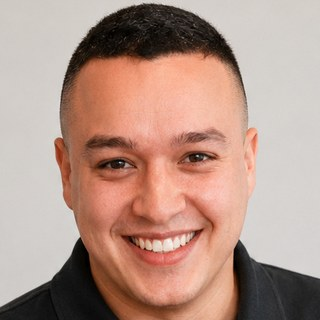
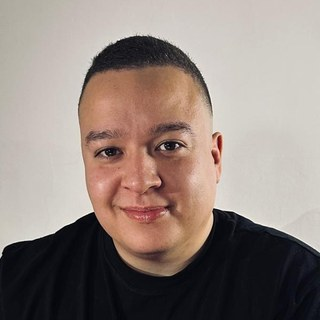
Audit: Jossiah's edits - new headshot (photo 2) and face crop, updated spend/revenue line, new MacBook quote
Claude-Session: https://claude.ai/code/session_01W7CZpkC2FqNieTvF5bf5iN

diff --git a/src/app/audit/page.tsx b/src/app/audit/page.tsx
@@ -190,13 +190,13 @@ export default function AuditPage() {
               <figure className={s.heroPhoto}>
                 <div className={s.heroPhotoFrame}>
                   <Image
-                    src="/jossiah-headshot.png"
+                    src="/jossiah-hero.jpg"
                     alt="Jossiah Pinto-Day"
                     fill
                     loading="eager"
                     fetchPriority="high"
                     sizes="(max-width: 900px) 90vw, 440px"
-                    style={{ objectFit: "cover", objectPosition: "center 25%" }}
+                    style={{ objectFit: "cover", objectPosition: "center 40%" }}
                   />
                 </div>
                 <figcaption>Jossiah Pinto-Day, founder</figcaption>
@@ -221,12 +221,9 @@ export default function AuditPage() {
                 <p>{"Consuming courses and trainings like no one’s business, and testing every idea and strategy I could think of, forever trying to find a way of getting better results, faster."}</p>
                 <p>{"And I like to think I’ve gotten pretty good at it."}</p>
                 <p>
-                  {"I’ve managed "}
-                  <strong>seven figures in ad spend</strong>
-                  {", generated "}
-                  <strong>hundreds of thousands of leads</strong>
-                  {", and helped bring in "}
-                  <strong>tens of millions of pounds in new revenue</strong>
+                  <strong>Over £1 million in advertising spend managed</strong>
+                  {", driving customer acquisition and supporting the growth of businesses generating "}
+                  <strong>over £10 million in combined revenue</strong>
                   {"."}
                 </p>
                 <p>
@@ -261,7 +258,7 @@ export default function AuditPage() {
                 </p>
               </div>
               <blockquote className={s.pull}>
-                <p>{"I’d rather be in the background, MacBook open, seeing if I can’t nudge the ‘cost per lead’ down by a few pence on that latest ad campaign."}</p>
+                <p>{"I’d rather be in the background, MacBook open, figuring out what’s working, what’s wasting money, and where the next opportunity to grow is hiding."}</p>
               </blockquote>
             </div>
 
